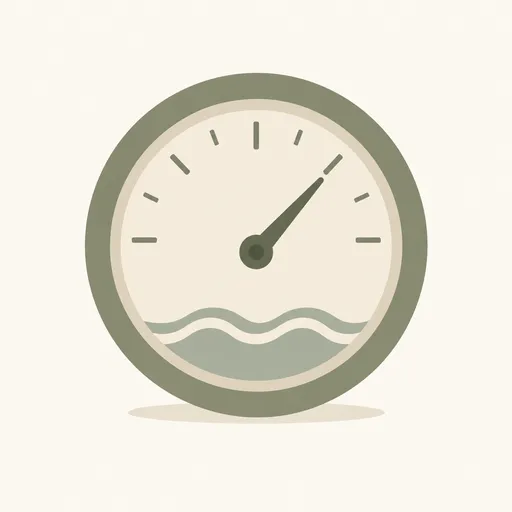
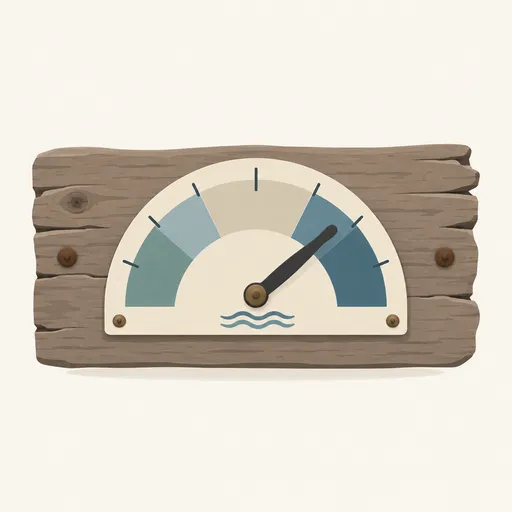
content(time): 조석 시계의 테를 반원으로 바꾼다
조석 시계도 시계라 얼굴을 버릴 수 없다. 그래서 테를 바꿨다 — 낡은 널빤지에
박힌 반원 눈금판에 바늘 하나, 아래에 물결 표시다. 윤곽이 온 원이 아니라
시계 얼굴로 읽히지 않는다.

53 → 108이고 둥근 판을 쓰는 나머지와도 다 멀다 — clock 119 · minute 121 ·
gauge 116 · hour 115 · sundial 123.

시계 갈래에 남은 것은 clock↔quarter-to 59 하나뿐이고 그건 옳은 자리다.
십오 분 전은 시계가 가리키는 시각이라 얼굴이 뜻 자체다. 그림이 아니라 뜻이
이웃한 자리라 그냥 둔다.

전체 훑기에서 늦춘 문턱의 쌍이 61 → 59가 됐다.

diff --git a/docs/twins-pending.md b/docs/twins-pending.md
@@ -110,13 +110,16 @@
 쓰고, `gauge`(계량기)와 `sundial`(해시계)도 둥근 판이다. 문턱에 걸린 것만
 세면 넷이지만 실제로는 일곱이 같은 꼴을 나눠 쓴다.
 
-**남은 것은 셋이다.**
+**`tide-clock`도 2026-09-10에 뺐다.** 얼굴을 버리지 않고 **테를 반원으로**
+바꿨다 — 낡은 널빤지에 박힌 반원 눈금판에 바늘 하나, 아래에 물결 표시다.
+조석 시계는 여전히 시계인데 윤곽이 온 원이 아니라 붙지 않는다. 53 → **108**
+이고 나머지와도 다 멀다(`clock` 119 · `minute` 121 · `gauge` 116 · `hour` 115
+· `sundial` 123).
 
-- `clock`↔`quarter-to` 59 — **둘 다 시계인 것이 옳다.** 십오 분 전은 시계가
-  가리키는 시각이라 얼굴을 버릴 수 없다. 그림이 아니라 뜻이 이웃한 자리다.
-- `quarter-to`↔`tide-clock` 53 — 조석 시계도 시계라 얼굴을 버릴 수 없다.
-  갈래를 내려면 **테와 눈금**을 바꾼다 — 반원 판, 또는 나무 판에 박힌 굵은 테.
-- `clock`↔`tide-clock`은 문턱 밖이다.
+**남은 것은 하나뿐이고 그건 옳은 자리다.**
+
+`clock`↔`quarter-to` 59 — 십오 분 전은 **시계가 가리키는 시각**이라 얼굴을
+버릴 수 없다. 그림이 아니라 뜻이 이웃한 자리라 그냥 둔다.
 
 셋 다 `time.json`이라 그 파일을 만지는 사람이 한 번에 볼 일이다.
 
